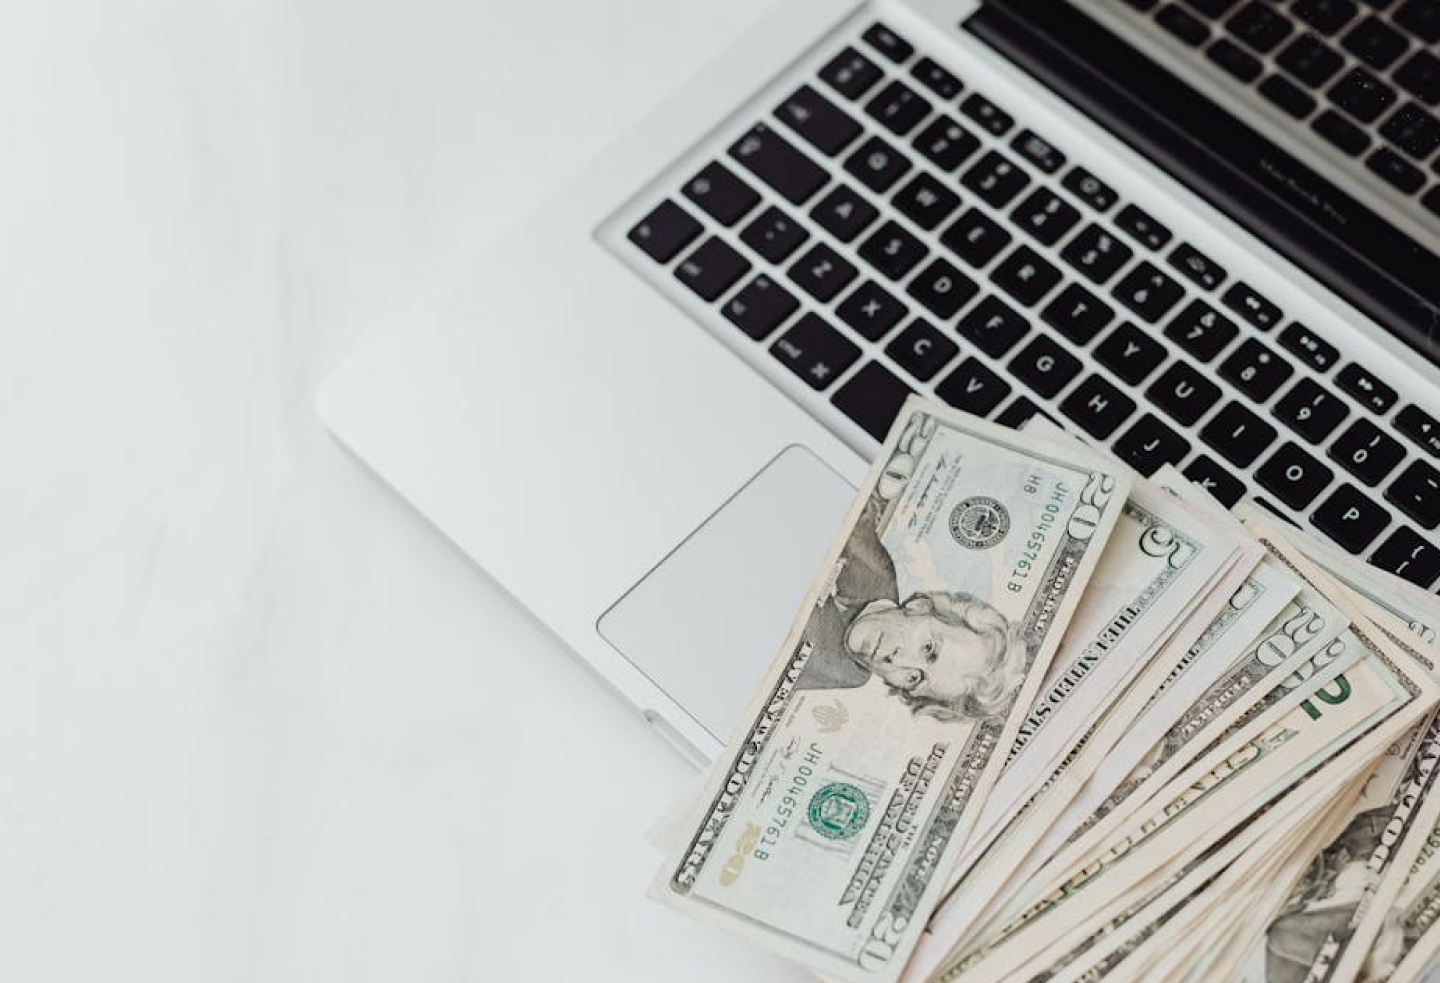
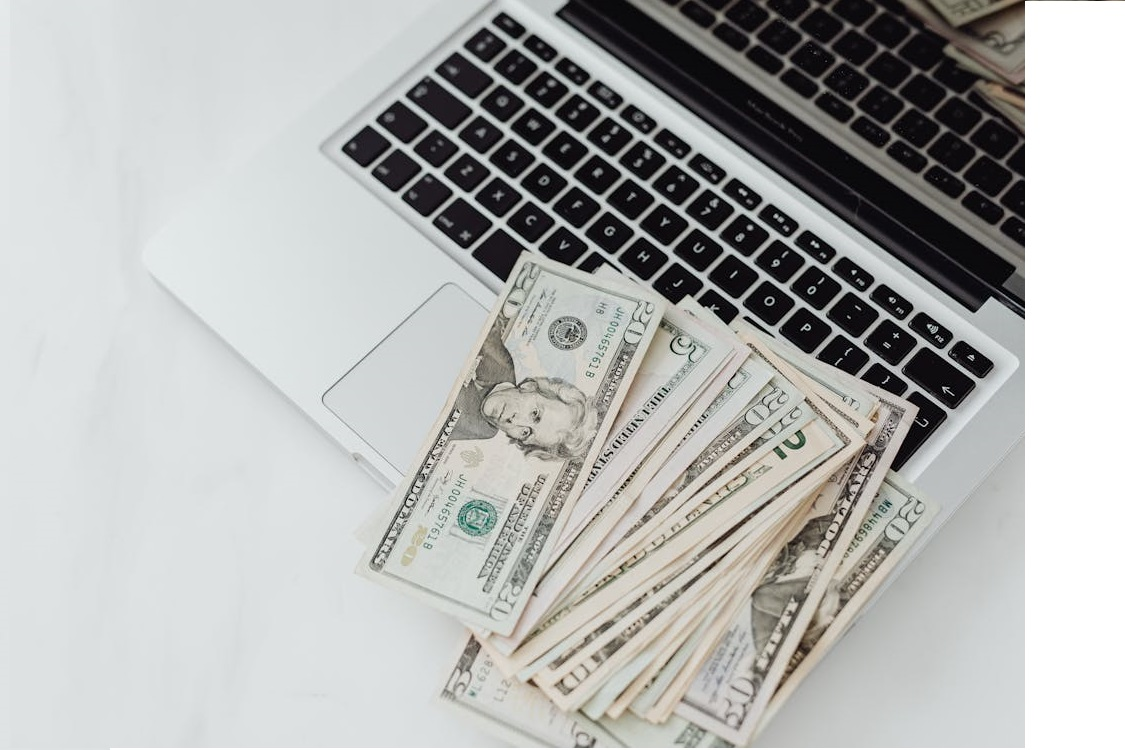
Minh: Update: Complete Starting page

diff --git a/src/resources/scss/starting.scss b/src/resources/scss/starting.scss
@@ -1,87 +1,52 @@
 body {
-    margin: 0;
-    padding: 0;
-    height: 100vh;
-    overflow-x: hidden;
-    overflow-y: hidden;
-    background-color: #F1FFFB !important;
-}
-
-.container {
-    height: 100vh; /* Chiều cao toàn bộ viewport */
-    flex-direction: column;
-    display: flex;
-    margin: 0;
-    padding: 0;
+    background-color: #F1FFFB;
 }
 
 .header-container {
-    position: absolute;
-    top: 0;
-    left: 0;
-    height: 10vh;
     display: flex;
     align-items: center;
-    width: 100%; /* Đảm bảo chiếm toàn bộ chiều rộng */
-    padding-left: 40px;
+    width: 100%;
+    padding: 30px;
 }
 
-
-.header {
-    margin: 0;
-    padding-left: 30px;
-    padding-top: 30px;
-}
-
-.mata-text {
+.logo {
+    color: #16A596;
     font-family: Inter;
     font-size: 50px;
-    font-weight: 800;
-    color: #16A596;
     font-style: normal;
+    font-weight: 800;
+    line-height: 150%;
     letter-spacing: -0.5px;
-    float:left;
 }
 
-.contact-text {
+.contact-text a {
     font-family: Inter;
-    font-size: 35px;
+    font-size: 30px;
     font-weight: normal;
     color: #1B8136;
-    text-decoration: none; /* Loại bỏ gạch chân */
-    padding-left: 430px;
-    float:right;
+    text-decoration: none;
+    margin-left: 500px;
 }
-
-
-.content-container {
-    display: flex;
-    width: 100vw; /* Đảm bảo chiều rộng toàn bộ viewport */
-    height: 100vh; /* Đảm bảo chiều cao toàn bộ viewport */
-    flex:1;
-}
-
 
 .text-container {
-    position: relative;
+    width: 437px;
+    height: 257px;
     width: 50%;
     display: flex;
     flex-direction: column;
     justify-content: center;
-    flex: 1;
-    margin-left: 30px;
+    margin: 80px 0 0 200px;
 }
 
 .text-container h3,
 .text-container h4 {
     margin: 0;
-    font-size: 60px; /* Đảm bảo cả h2 và h3 có cùng kích thước */
+    font-size: 60px;
     font-weight: bold;  
     stroke-width: 3px; 
-    font-family:Jura;/* Đảm bảo không có sự khác biệt về chiều rộng nét */
+    font-family:Jura;
 }
 
-/* Định nghĩa màu sắc riêng biệt */
 .text-container h3 {
     color: #1B8136;
 }
@@ -89,30 +54,12 @@ body {
 .text-container h4   {
     color: #665F5F;
 }
-.background {
-    width: 50vw; /* Chiếm nửa chiều rộng của viewport */
-    height: 100vh; /* Chiều cao bằng toàn bộ viewport */
-    position: absolute; /* Để điều chỉnh vị trí */
-    top: 0;
-    right: 0; /* Đặt bên phải màn hình */
-    background: url("/images/home.png") no-repeat;
-    background-size: cover;
-    background-position: right center;
-}
 
-/* Căn giữa nội dung trong start-container */
-.start-container {
-    display: flex;
-    justify-content: center;
-    align-items: center;
-    position: absolute; /* Để đặt chính xác */
-    top: 50%; /* Đặt từ giữa màn hình */
-    left: 50%; /* Đặt từ giữa màn hình */
-    transform: translate(-50%, -50%); /* Để căn giữa chính xác */
-}
-
-/* Định dạng cho nút */
 .primary-btn {
+    position: absolute;
+    top: 50%;
+    right: 25%;
+    transform: translateY(-50%);
     display: flex;
     align-items: center;
     justify-content: center;
@@ -121,12 +68,25 @@ body {
     height: 150px;
     border-radius: 50%;
     background-color: #fff;
-    border: 9px solid #55ad9b;
-    overflow: hidden;
+    border: 15px solid #55ad9bbb;
     text-decoration: none;
     font-family: Jura;
     color:black;
 }
+
+.block {
+    position: absolute;
+    top: -50%;
+    right: -67%;
+    height: 200%;
+    width: 100%;
+    background-image: url("/images/home.png");
+    background-size: 100% 100%;
+    background-repeat: no-repeat;
+    background-position: right top;
+    border-radius: 50% 0 0 50%;
+}
+
 
 
 

diff --git a/src/public/css/starting.css b/src/public/css/starting.css
@@ -1,119 +1,57 @@
-@charset "UTF-8";
 body {
-  margin: 0;
-  padding: 0;
-  height: 100vh;
-  overflow-x: hidden;
-  overflow-y: hidden;
-  background-color: #F1FFFB !important; }
-
-.container {
-  height: 100vh;
-  /* Chiều cao toàn bộ viewport */
-  flex-direction: column;
-  display: flex;
-  margin: 0;
-  padding: 0; }
+  background-color: #F1FFFB; }
 
 .header-container {
-  position: absolute;
-  top: 0;
-  left: 0;
-  height: 10vh;
   display: flex;
   align-items: center;
   width: 100%;
-  /* Đảm bảo chiếm toàn bộ chiều rộng */
-  padding-left: 40px; }
+  padding: 30px; }
 
-.header {
-  margin: 0;
-  padding-left: 30px;
-  padding-top: 30px; }
-
-.mata-text {
+.logo {
+  color: #16A596;
   font-family: Inter;
   font-size: 50px;
-  font-weight: 800;
-  color: #16A596;
   font-style: normal;
-  letter-spacing: -0.5px;
-  float: left; }
+  font-weight: 800;
+  line-height: 150%;
+  letter-spacing: -0.5px; }
 
-.contact-text {
+.contact-text a {
   font-family: Inter;
-  font-size: 35px;
+  font-size: 30px;
   font-weight: normal;
   color: #1B8136;
   text-decoration: none;
-  /* Loại bỏ gạch chân */
-  padding-left: 430px;
-  float: right; }
-
-.content-container {
-  display: flex;
-  width: 100vw;
-  /* Đảm bảo chiều rộng toàn bộ viewport */
-  height: 100vh;
-  /* Đảm bảo chiều cao toàn bộ viewport */
-  flex: 1; }
+  margin-left: 500px; }
 
 .text-container {
-  position: relative;
+  width: 437px;
+  height: 257px;
   width: 50%;
   display: flex;
   flex-direction: column;
   justify-content: center;
-  flex: 1;
-  margin-left: 30px; }
+  margin: 80px 0 0 200px; }
 
 .text-container h3,
 .text-container h4 {
   margin: 0;
   font-size: 60px;
-  /* Đảm bảo cả h2 và h3 có cùng kích thước */
   font-weight: bold;
   stroke-width: 3px;
-  font-family: Jura;
-  /* Đảm bảo không có sự khác biệt về chiều rộng nét */ }
+  font-family: Jura; }
 
-/* Định nghĩa màu sắc riêng biệt */
 .text-container h3 {
   color: #1B8136; }
 
 .text-container h4 {
   color: #665F5F; }
 
-.background {
-  width: 50vw;
-  /* Chiếm nửa chiều rộng của viewport */
-  height: 100vh;
-  /* Chiều cao bằng toàn bộ viewport */
-  position: absolute;
-  /* Để điều chỉnh vị trí */
-  top: 0;
-  right: 0;
-  /* Đặt bên phải màn hình */
-  background: url("/images/home.png") no-repeat;
-  background-size: cover;
-  background-position: right center; }
-
-/* Căn giữa nội dung trong start-container */
-.start-container {
-  display: flex;
-  justify-content: center;
-  align-items: center;
-  position: absolute;
-  /* Để đặt chính xác */
-  top: 50%;
-  /* Đặt từ giữa màn hình */
-  left: 50%;
-  /* Đặt từ giữa màn hình */
-  transform: translate(-50%, -50%);
-  /* Để căn giữa chính xác */ }
-
-/* Định dạng cho nút */
 .primary-btn {
+  position: absolute;
+  top: 50%;
+  right: 25%;
+  transform: translateY(-50%);
   display: flex;
   align-items: center;
   justify-content: center;
@@ -122,8 +60,19 @@ body {
   height: 150px;
   border-radius: 50%;
   background-color: #fff;
-  border: 9px solid #55ad9b;
-  overflow: hidden;
+  border: 15px solid #55ad9bbb;
   text-decoration: none;
   font-family: Jura;
   color: black; }
+
+.block {
+  position: absolute;
+  top: -50%;
+  right: -67%;
+  height: 200%;
+  width: 100%;
+  background-image: url("/images/home.png");
+  background-size: 100% 100%;
+  background-repeat: no-repeat;
+  background-position: right top;
+  border-radius: 50% 0 0 50%; }
